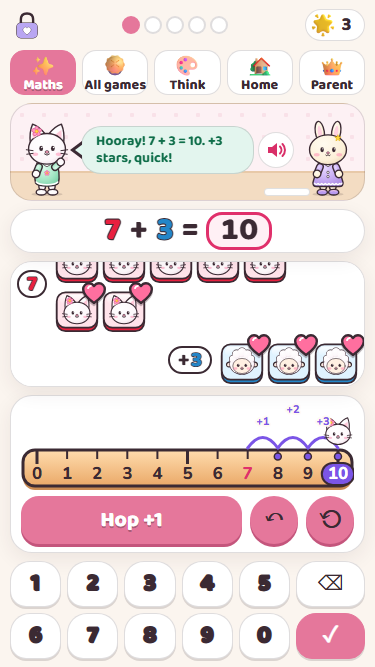
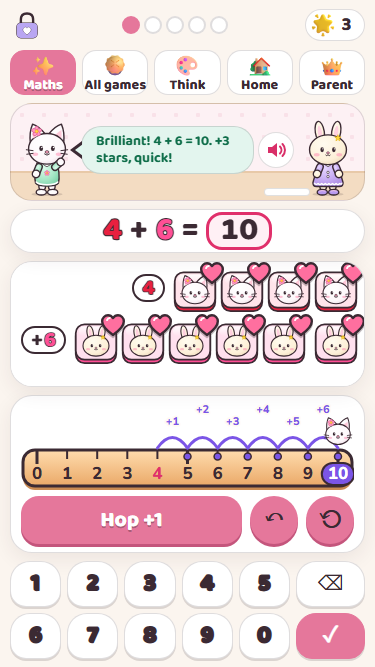
Equal button widths in every row; hide the empty tray
Claude-Session: https://claude.ai/code/session_01T9KPNPMjnDcrQKtsaSJi3w

diff --git a/modules/theme.js b/modules/theme.js
@@ -63,6 +63,21 @@ body.who-kennedy .tp-score { visibility: hidden; }
 .mw-tabs button, .mw-acts button, .mw-shop button, .kn-item, .bg-btn { border: 1px solid var(--line) !important; box-shadow: 0 2px 0 var(--line) !important; background: var(--surface) !important; }
 .mw-tabs button[aria-pressed="true"] { background: var(--accent) !important; color: #fff !important; border-color: var(--accent) !important; }
 .set input, .set select, textarea { border: 1px solid var(--line); border-radius: 10px; padding: 8px 10px; font: inherit; background: var(--surface); }
+
+/* Equal widths: every row of buttons shares the width evenly (Aldrin: no wider and narrower buttons in one row). */
+.jbtns, .jbtns.many { display: grid !important; grid-auto-flow: column !important; grid-template-columns: none !important; grid-auto-columns: minmax(0, 1fr) !important; }
+.jbtn, .jbtn.icon { width: auto !important; min-width: 0 !important; border-radius: 14px !important; }
+.mw-tabs { display: grid !important; grid-template-columns: repeat(3, minmax(0, 1fr)); width: min(420px, 100%); margin: 0 auto; }
+.mw-acts { display: grid !important; grid-template-columns: repeat(3, minmax(0, 1fr)); width: min(480px, 100%); margin: 0 auto; }
+.mw-acts button, .mw-tabs button { width: 100%; }
+.welcome .plan { display: grid !important; grid-template-columns: repeat(3, minmax(0, 1fr)); width: 100%; }
+.welcome .plan li { display: grid; place-items: center; text-align: center; min-height: 48px; }
+.kn-shop, .mw-shop { grid-template-columns: repeat(auto-fill, minmax(150px, 1fr)) !important; }
+.prof-list { grid-template-columns: repeat(auto-fit, minmax(0, 1fr)) !important; }
+.set .mini + .mini { margin-left: 0; }
+.kd-keys { grid-template-columns: repeat(6, minmax(0, 1fr)) !important; min-width: min(380px, 100%); }
+.ch-row, .bg-row { display: grid !important; grid-auto-flow: column; grid-auto-columns: minmax(0, 1fr); gap: 8px; }
+.ch-row > *, .bg-row > * { width: 100%; min-width: 0; }
 `;
   const st = document.createElement("style"); st.id = "theme-css"; st.textContent = CSS; document.head.appendChild(st);
 

diff --git a/src/modules/theme.js b/src/modules/theme.js
@@ -63,6 +63,21 @@ body.who-kennedy .tp-score { visibility: hidden; }
 .mw-tabs button, .mw-acts button, .mw-shop button, .kn-item, .bg-btn { border: 1px solid var(--line) !important; box-shadow: 0 2px 0 var(--line) !important; background: var(--surface) !important; }
 .mw-tabs button[aria-pressed="true"] { background: var(--accent) !important; color: #fff !important; border-color: var(--accent) !important; }
 .set input, .set select, textarea { border: 1px solid var(--line); border-radius: 10px; padding: 8px 10px; font: inherit; background: var(--surface); }
+
+/* Equal widths: every row of buttons shares the width evenly (Aldrin: no wider and narrower buttons in one row). */
+.jbtns, .jbtns.many { display: grid !important; grid-auto-flow: column !important; grid-template-columns: none !important; grid-auto-columns: minmax(0, 1fr) !important; }
+.jbtn, .jbtn.icon { width: auto !important; min-width: 0 !important; border-radius: 14px !important; }
+.mw-tabs { display: grid !important; grid-template-columns: repeat(3, minmax(0, 1fr)); width: min(420px, 100%); margin: 0 auto; }
+.mw-acts { display: grid !important; grid-template-columns: repeat(3, minmax(0, 1fr)); width: min(480px, 100%); margin: 0 auto; }
+.mw-acts button, .mw-tabs button { width: 100%; }
+.welcome .plan { display: grid !important; grid-template-columns: repeat(3, minmax(0, 1fr)); width: 100%; }
+.welcome .plan li { display: grid; place-items: center; text-align: center; min-height: 48px; }
+.kn-shop, .mw-shop { grid-template-columns: repeat(auto-fill, minmax(150px, 1fr)) !important; }
+.prof-list { grid-template-columns: repeat(auto-fit, minmax(0, 1fr)) !important; }
+.set .mini + .mini { margin-left: 0; }
+.kd-keys { grid-template-columns: repeat(6, minmax(0, 1fr)) !important; min-width: min(380px, 100%); }
+.ch-row, .bg-row { display: grid !important; grid-auto-flow: column; grid-auto-columns: minmax(0, 1fr); gap: 8px; }
+.ch-row > *, .bg-row > * { width: 100%; min-width: 0; }
 `;
   const st = document.createElement("style"); st.id = "theme-css"; st.textContent = CSS; document.head.appendChild(st);
 

diff --git a/modules/world.js b/modules/world.js
@@ -24,6 +24,7 @@
 .sc-stars i.gone { background: rgba(0,0,0,.12); }
 .sc-tray { position: absolute; bottom: 10px; left: -70px; width: 64px; display: flex; flex-wrap: wrap; gap: 2px; justify-content: center; padding: 3px; border-radius: 10px; background: #fff; border: 1px solid rgba(0,0,0,.12); }
 .sc-tray img { width: 18px; height: 18px; }
+.sc-tray:empty { display: none; }
 .scene-knight { background: linear-gradient(#dcebfb 0 62%, #cfe8c4 62% 100%) !important; }
 .scene-knight::before { content: ""; position: absolute; left: 30%; right: 30%; bottom: 38%; height: 34%; background:
   linear-gradient(#e9dcc9, #e2d3bd); border: 1px solid rgba(0,0,0,.12); border-bottom: 0; clip-path: polygon(0 18%, 8% 18%, 8% 0, 16% 0, 16% 18%, 24% 18%, 24% 0, 32% 0, 32% 18%, 68% 18%, 68% 0, 76% 0, 76% 18%, 84% 18%, 84% 0, 92% 0, 92% 18%, 100% 18%, 100% 100%, 0 100%); opacity: .7; }

diff --git a/src/modules/world.js b/src/modules/world.js
@@ -24,6 +24,7 @@
 .sc-stars i.gone { background: rgba(0,0,0,.12); }
 .sc-tray { position: absolute; bottom: 10px; left: -70px; width: 64px; display: flex; flex-wrap: wrap; gap: 2px; justify-content: center; padding: 3px; border-radius: 10px; background: #fff; border: 1px solid rgba(0,0,0,.12); }
 .sc-tray img { width: 18px; height: 18px; }
+.sc-tray:empty { display: none; }
 .scene-knight { background: linear-gradient(#dcebfb 0 62%, #cfe8c4 62% 100%) !important; }
 .scene-knight::before { content: ""; position: absolute; left: 30%; right: 30%; bottom: 38%; height: 34%; background:
   linear-gradient(#e9dcc9, #e2d3bd); border: 1px solid rgba(0,0,0,.12); border-bottom: 0; clip-path: polygon(0 18%, 8% 18%, 8% 0, 16% 0, 16% 18%, 24% 18%, 24% 0, 32% 0, 32% 18%, 68% 18%, 68% 0, 76% 0, 76% 18%, 84% 18%, 84% 0, 92% 0, 92% 18%, 100% 18%, 100% 100%, 0 100%); opacity: .7; }

diff --git a/tests/equal_buttons_test.py b/tests/equal_buttons_test.py
@@ -1,0 +1,40 @@
+"""Silent check: in every row of buttons, buttons on the same line have the same width (2 px tolerance). One line per screen."""
+import sys
+from playwright.sync_api import sync_playwright
+sys.path.insert(0, __file__.rsplit("\\", 1)[0].rsplit("/", 1)[0])
+from autoplay import STUB, STEP
+URL = sys.argv[1]; res = []
+JS = """() => { const rows = document.querySelectorAll('.jbtns, .mw-tabs, .mw-acts, .welcome .plan, .ch-row, .bg-row, .tabs, .kd-keys, .tp-choices, .prof-list');
+  const bad = []; rows.forEach(r => { if (!r.offsetParent) return; const kids = [...r.children].filter(c => c.offsetParent && c.getBoundingClientRect().width > 0);
+    const tops = {}; kids.forEach(c => { const t = Math.round(c.getBoundingClientRect().top / 4); (tops[t] = tops[t] || []).push(Math.round(c.getBoundingClientRect().width)); });
+    Object.values(tops).forEach(ws => { if (ws.length > 1 && Math.max(...ws) - Math.min(...ws) > 2) bad.push(r.className + ': ' + ws.join(',')); }); });
+  return bad; }"""
+def ok(name, cond, extra=""): res.append(bool(cond)); print(("PASS " if cond else "FAIL ") + name + (" | " + str(extra) if extra != "" and not cond else ""))
+with sync_playwright() as p:
+    b = p.chromium.launch(args=["--mute-audio"])
+    for vw, vh in [(1024, 768), (375, 667)]:
+        pg = b.new_page(viewport={"width": vw, "height": vh}); pg.add_init_script(STUB); pg.set_default_timeout(5000); errs = []
+        pg.on("pageerror", lambda e: errs.append(str(e)))
+        pg.goto(URL); pg.wait_for_timeout(900)
+        def chk(tag):
+            bad = pg.evaluate(JS); ok(f"{vw} {tag}: equal buttons", not bad, bad[:3])
+        chk("profiles")
+        pg.evaluate("()=>document.querySelector('[data-p=\"marie\"]').click()"); pg.wait_for_timeout(300); chk("welcome")
+        pg.evaluate("()=>document.getElementById('goBtn').click()"); pg.wait_for_timeout(1000)
+        for i in range(6): pg.evaluate(STEP); pg.wait_for_timeout(1700)
+        chk("Marie maths")
+        pg.evaluate("()=>{Mission.pause(); P.stars=50; P.pet={id:'cat',name:'Snowy',toys:[],wear:'',pats:0,meals:0}; const k=KidsEngine.dayKey(Date.now()); P.days[k].sets=3; save(); showView('home');}"); pg.wait_for_timeout(500); chk("Marie house")
+        pg.evaluate("()=>document.querySelector('[data-part=\"pet\"]').click()"); pg.wait_for_timeout(300); chk("Marie pet")
+        for g in ["chess", "battleship", "codebreaker", "hanoi", "nim"]:
+            pg.evaluate("()=>showView('think')"); pg.wait_for_timeout(300)
+            pg.evaluate(f"()=>document.querySelector('[data-game=\"{g}\"]').click()"); pg.wait_for_timeout(500); chk(g)
+            pg.evaluate("()=>ThinkTab.stop()"); pg.wait_for_timeout(200)
+        pg.evaluate("()=>{showView('sums'); startAs('kennedy');}"); pg.wait_for_timeout(300)
+        pg.evaluate("()=>document.getElementById('goBtn').click()"); pg.wait_for_timeout(1000)
+        for i in range(6): pg.evaluate(STEP); pg.wait_for_timeout(1700)
+        chk("Kennedy maths")
+        pg.evaluate("()=>{Mission.pause(); const c=document.getElementById('cover'); c.hidden=false; KnightWorld.defence(c,1,()=>{})}"); pg.wait_for_timeout(400); chk("castle defence")
+        ok(f"{vw} no page errors", not errs, errs[:3])
+        pg.close()
+    b.close()
+print(f"RESULT {sum(res)}/{len(res)} passed")
